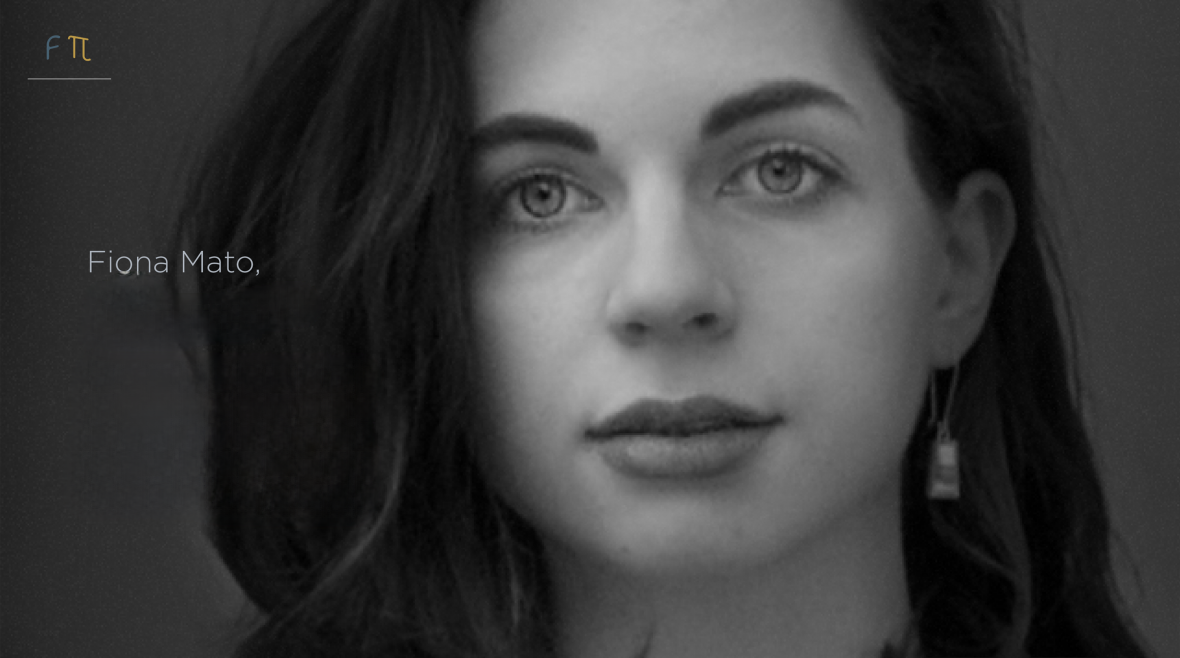
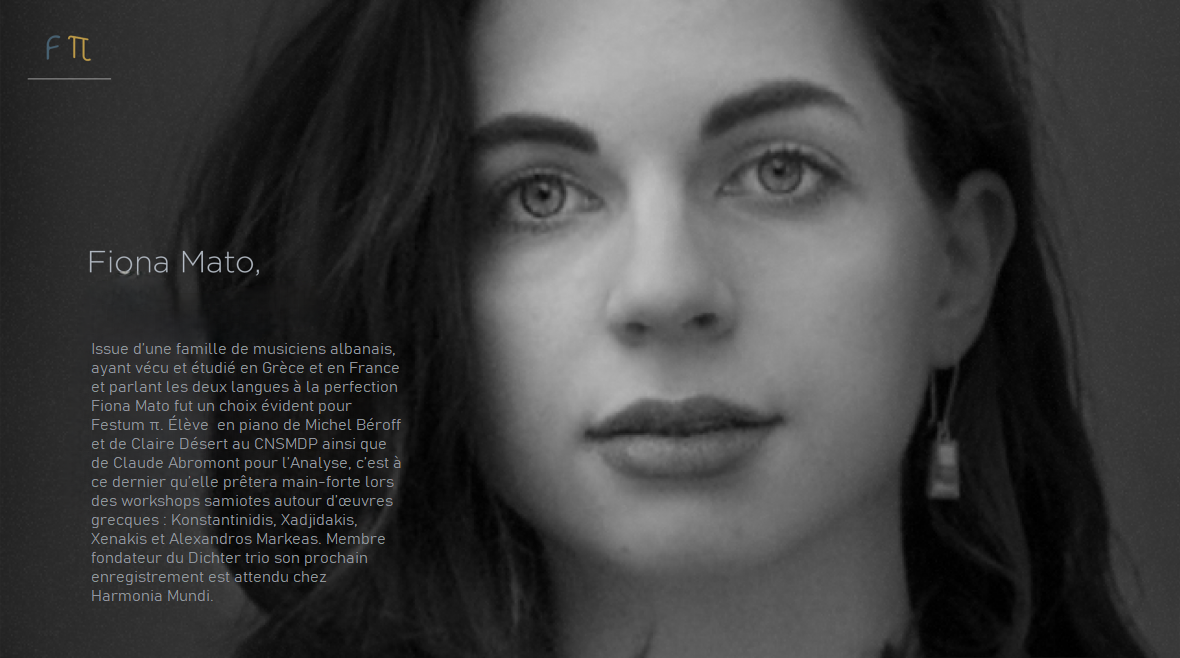
Update mato with text

Changed region(s): [[0.061, 0.5167, 0.3356, 0.9119]]

diff --git a/artists.html b/artists.html
@@ -26,13 +26,7 @@
 
     <link rel="stylesheet" href="css/lightbox.css">
 
-    <!--
-
-Tooplate 2129 Crispy Kitchen
-
-https://www.tooplate.com/view/2129-crispy-kitchen
-
--->
+    
   </head>
 
   <body>
@@ -285,7 +279,7 @@ https://www.tooplate.com/view/2129-crispy-kitchen
           'alwaysShowNavOnTouchDevices': true,
           'albumLabel': "Artist %1 of %2",
           'disableScrolling': true,
-          'positionFromTop': 300
+          'positionFromTop': 100
         })
     </script>
   </body>

diff --git a/mathematicians.html b/mathematicians.html
@@ -26,13 +26,6 @@
 
     <link rel="stylesheet" href="css/lightbox.css">
 
-    <!--
-
-Tooplate 2129 Crispy Kitchen
-
-https://www.tooplate.com/view/2129-crispy-kitchen
-
--->
   </head>
 
   <body>
